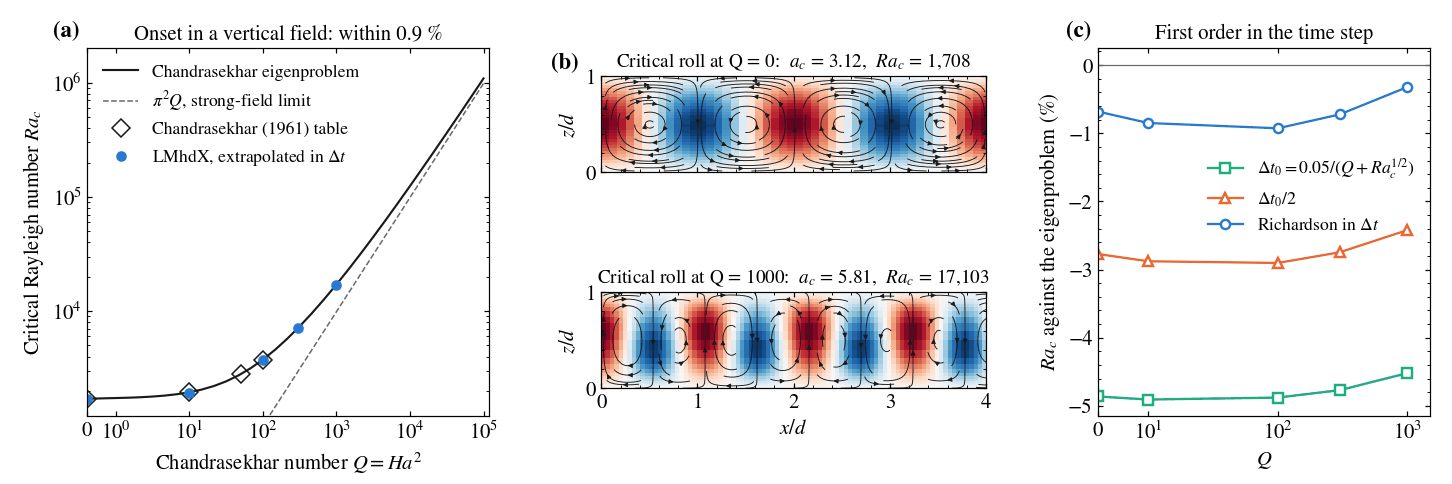
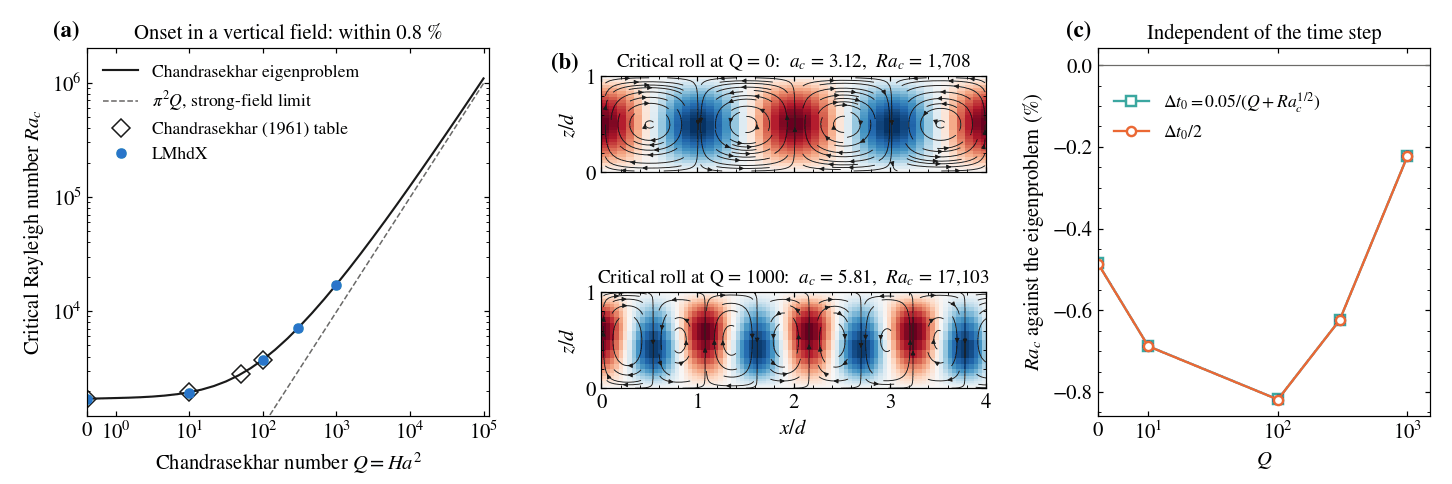
Onset figure on the exact momentum stage: independent of the time step, within 0.8 %
With main's constrained stage (#297) the onset at dt0 and dt0/2 agree to
0.01 %: the first-order step error the figure showed (-4.5 % at dt0) was
the stabilised stage's, as the docs said, and the figure is regenerated
as they promised. LMhdX now lies 0.2 to 0.8 % below Chandrasekhar's
eigenproblem over Q = 0-1000, the 32-cell layer mesh's error. Panel (c)
shows the two steps, titled "Independent of the time step"; the docs, the
README's 0.9 % and the plan follow. The developed and entrance figures
regenerate byte for byte on the new main.

diff --git a/scripts/make_showcase_figures.py b/scripts/make_showcase_figures.py
@@ -607,7 +607,7 @@ def thermal_onset(chandrasekhar_numbers: tuple[float, ...] = (0.0, 10.0, 100.0, 
         axis.plot(strong, np.pi**2 * strong, "--", color=MUTED, lw=1, label=r"$\pi^2 Q$, strong-field limit")
         table = np.transpose(CHANDRASEKHAR_TABLE)
         axis.plot(*table, "D", color=INK, mfc="none", ms=8, label="Chandrasekhar (1961) table")
-        axis.plot(rows[:, 0], rows[:, 5], "o", color=SERIES[0], label=r"LMhdX, extrapolated in $\Delta t$")
+        axis.plot(rows[:, 0], rows[:, 5], "o", color=SERIES[0], label="LMhdX")
         axis.set_xscale("symlog", linthresh=1.0, linscale=0.35)
         axis.set_yscale("log")
         axis.set(xlim=(0, 1.2e5), ylim=(1.2e3, 2e6), xlabel="Chandrasekhar number $Q = Ha^2$")
@@ -630,15 +630,15 @@ def thermal_onset(chandrasekhar_numbers: tuple[float, ...] = (0.0, 10.0, 100.0, 
                 axis.text(-0.13, 1.08, "(b)", transform=axis.transAxes, fontsize=15, fontweight="bold")
 
         axis = fig.add_subplot(outer[2])
-        steps = (r"$\Delta t_0 = 0.05/(Q + Ra_c^{1/2})$", r"$\Delta t_0/2$", r"Richardson in $\Delta t$")
-        for color, column, marker, label in zip(SERIES[::-1], (3, 4, 5), "s^o", steps):
+        steps = (r"$\Delta t_0 = 0.05/(Q + Ra_c^{1/2})$", r"$\Delta t_0/2$")
+        for color, column, marker, label in zip(SERIES[::-1], (3, 4), "so", steps):
             values = 100 * (rows[:, column] / rows[:, 1] - 1)
             axis.plot(rows[:, 0], values, marker + "-", color=color, label=label, **OPEN)
         axis.axhline(0.0, color=MUTED, lw=0.8)
         axis.set_xscale("symlog", linthresh=10.0, linscale=0.35)
         axis.set(xlim=(0, 1500), xlabel="$Q$", ylabel="$Ra_c$ against the eigenproblem (%)")
-        axis.set_title("First order in the time step")
-        axis.legend(loc="center right", bbox_to_anchor=(1.0, 0.6))
+        axis.set_title("Independent of the time step")
+        axis.legend(loc="upper left", bbox_to_anchor=(0.0, 0.93))
         _panel(axis, "c")
         _save_webp(fig, STATIC / "thermal_magnetoconvection.webp", dpi=110, palette=True)
 

diff --git a/scripts/audit_architecture.py b/scripts/audit_architecture.py
@@ -251,7 +251,7 @@ def build_inventory(root: Path = ROOT) -> dict[str, Any]:
             "maintenance_script_count_max": 4,
             "stable_root_exports_max": 40,
             "curated_examples_max": 9,
-            "checkout_bytes_max": 3413641,
+            "checkout_bytes_max": 3412911,
             "root_import_median_seconds_max": 0.25,
             "sdist_bytes_max": 512 * 1024,
             "wheel_bytes_max": 384 * 1024,

diff --git a/plan.md b/plan.md
@@ -2241,7 +2241,7 @@ raw data as release assets with checksums.
 | B2 comparison | ΔP curves: LMX three meshes, FreeMHD, experiment with error bars | 80 KB | Phase 4.4 |
 | `docs/_static/thermal_developed_duct.webp` | H1 square duct at Ha 0 and 100 in 3-D (velocity as height, temperature as colour); rectangular-duct `Nu_H1` against the exact series and Shah & London's fit; Nu against Ha for the square duct and Hartmann plates against their closed form; mesh convergence | 74 KB | Phase 5, done (#269) |
 | `docs/_static/thermal_entrance.webp` | Temperature above the bulk over the entrance in 3-D; local Nu along heated Hartmann plates (Ha 0, 10, 50) against the Graetz eigen-expansion and the slug closed form; error, with Pe 1600 | 49 KB | Phase 5, done (#269) |
-| `docs/_static/thermal_magnetoconvection.webp` | `Ra_c` against Q = 0–1000 against Chandrasekhar's eigenproblem and table; the critical rolls at Q = 0 and 1000; first order in the time step | 47 KB | Phase 5, done (#269) |
+| `docs/_static/thermal_magnetoconvection.webp` | `Ra_c` against Q = 0–1000 against Chandrasekhar's eigenproblem and table; the critical rolls at Q = 0 and 1000; independent of the time step | 47 KB | Phase 5, done (#269) |
 | Heated duct | temperature and Nu | ≤ 100 KB | Phase 5 |
 | Stellarator channel | coil field along the channel, ΔP, wall current | ≤ 150 KB + MP4 | Phase 6.2 |
 
@@ -2477,7 +2477,7 @@ Process: pyOpenSci README guide · JOSS review criteria · Google small CLs · D
 | 2026-10-15 | Review of #261 (stacked on it): the thermal gradient-vs-central-difference test now runs with `advection="van_leer"` as well as upwind, on the same random buoyant start, best of three sizes within 1e-5; the van Leer page states that the limiter is piecewise smooth and that at a kink `jax.grad` follows the implementation's derivative conventions, not necessarily a directional derivative (wording corrected at integration, review notes Section 4). Office CPU, load 55-65: warm 100-step run on 4x48x48 costs 0.28 s upwind and 0.38 s van Leer, its gradient 0.68 s and 1.16 s. Adds about 11 s (latest stack) to 19 s (floor) to the timeloop test's shard. |
 | 2026-10-19 | Slimming of the thermal module (merged as #266, 47319aa), behaviour preserved, no tolerance changed. `thermal.py` 1,441 to 1,246 lines (package 12,776 to 12,742; `io.py` 1,312 to 1,436, now the largest module, `ops.py` 968 to 1,008). (1) One rectilinear VTR writer: `io.write_vtr(path, faces, **cells)` takes named cell arrays and `write_thermal_vtr` is gone (-38 lines); the 2-D `write_paraview` now writes its cells x-fastest as VTK orders them, which the old writer did not for `ny != nz`. (2) The thermal TOML reader moved out of `thermal.py` to `io.thermal_run_from_toml` with one `[grid]` parser, one `[flow]` parser and a one-line-per-table schema; top-level `schema_version = 1` is checked (optional, default 1, anything else refused) and documented in `docs/reference/cli.md`; the page's example carries it. (3) `ops.neighbours`, `ops.outgoing_rate` (beside `advective_step_limit`), `ops.cell_force_to_faces` (used by `_buoyancy` and `core3d.face_lorentz_force`) and `ops.padded_gradient` (used by `face_gradient` and van Leer); the test-only `_conduct` is gone. (4) Van Leer reads its slopes from the one array padded by the thermal conditions (no second pad) and skips one-cell axes: forward fields bit-identical to `main`, gradients within 3e-15 (upwind and van Leer, 48 x 16 x 16, 40 steps, floor and latest). (5) `advance_thermal(..., diagnostics=n)` keeps every n-th step's scalars (default 1, as before); chunked `jax.checkpoint` runs are documented as the recipe for long differentiated runs. (6) The thermal duct design test runs the page's workflow on 3 of its 7 shapes, a golden section stopped at 0.08 in ln(b/a) and a 40-cell mesh check: same contracts, still in the same tier; 58.6 / 61.9 s against 77.7 / 81.5 s on `main` (floor / latest, back to back at load 20), about 25 % less on either stack. Warm and gradient timings against `main` (office CPU, load 20-30, best of 5 and 3, floor / latest): upwind warm 195 / 152-165 ms against 191-197 / 157-162; van Leer warm 191-197 / 161-170 against 197-203 / 184; van Leer gradient 275-277 / 204-218 against 273-306 / 215-240; no slowdown | Remaining to reach about 1,100 lines in `thermal.py`: the developed-duct section (about 190 lines) and the docstrings |
 | 2026-10-19 | Release 1.11.0. Phase 5's thermal module, by Tyler Brandes (#266), slimmed in #267: temperature on the staggered core with implicit conduction, upwind or van Leer transport, Joule heat, optional Boussinesq buoyancy, the thermally developed duct, heated open and Hunt ducts, TOML runs, restarts, ParaView output and a checkpointing recipe. Also in this release: Table I fully gated (#160); the duct design law (#221); the `lmhdx.pipe` split (#223); open-duct and pressure fixes (#229); support for JAX 0.11 (#243) and NumPy 2.5 (#257); the GCI table and claim wording (#253); examples and docs (#224) | slimming of the developed-duct section; #225, the open-axis preconditioner |
-| 2026-10-19 | Phase 5 showcase, benchmarks (Tyler Brandes): `scripts/make_showcase_figures.py` gains three heat-transfer figures, each set against an exact solution or the literature and drawn in a journal style (STIX type, boxed axes, sentence-case labels, a categorical order checked for color-vision deficiency, upright vertical labels on the 3-D panels). `--only developed`: rectangular H1 ducts, aspect 1 to 1/8, within 0.35 % of the double-sine series on 32 cells across the short side, on Shah & London's (1978) fit; Hartmann plates carrying the package's own Hartmann flow within 0.2 % of the closed form over Ha 1–1000 (128 cells); the square duct from 3.61 to 6.67 at Ha 1000, 6 % short of slug flow; second order. `--only entrance`: heated Hartmann plates in an open duct (held flow, van Leer, Pe 400) within 1.3 % of the Graetz eigen-expansion past x+ = 1e-3 and 0.3 % past 1e-2 at Ha 0, 10, 50; the inlet excess is axial conduction (1.3 % to 0.14 % at x+ = 1e-3 from Pe 400 to 1600, unchanged by finer cells across or along). `--only onset`: Rayleigh–Bénard onset in a vertical field from growth rates at 0.97 and 1.03 Ra_c by power iteration on the time stepper (the perturbation rescaled to 1e-6 every half time unit, converged to five digits by the third rescaling; a perturbation decaying toward 1e-10 met a round-off floor from the hydrostatic balance on the layer-resolving mesh and gave rates near onset that moved with 1e-5 changes in the wavenumber), two time steps and Richardson: within 0.9 % of Chandrasekhar's eigenproblem for Q = 0–1000 (Chebyshev collocation, reproducing his tabulated values to 0.01 %); first order in dt (−4.5 to −4.9 %, then −2.4 to −2.9 %). The small solves are pinned to the CPU, where they run faster than on a GPU. Stills are 256-color (median cut) lossless WebP, 170 KB with their larger text; the media stay under the 1 MB budget (0.97 MB) | 5.4, 5.5; the showcase movies |
+| 2026-10-19 | Phase 5 showcase, benchmarks (Tyler Brandes): `scripts/make_showcase_figures.py` gains three heat-transfer figures, each set against an exact solution or the literature and drawn in a journal style (STIX type, boxed axes, sentence-case labels, a categorical order checked for color-vision deficiency, upright vertical labels on the 3-D panels). `--only developed`: rectangular H1 ducts, aspect 1 to 1/8, within 0.35 % of the double-sine series on 32 cells across the short side, on Shah & London's (1978) fit; Hartmann plates carrying the package's own Hartmann flow within 0.2 % of the closed form over Ha 1–1000 (128 cells); the square duct from 3.61 to 6.67 at Ha 1000, 6 % short of slug flow; second order. `--only entrance`: heated Hartmann plates in an open duct (held flow, van Leer, Pe 400) within 1.3 % of the Graetz eigen-expansion past x+ = 1e-3 and 0.3 % past 1e-2 at Ha 0, 10, 50; the inlet excess is axial conduction (1.3 % to 0.14 % at x+ = 1e-3 from Pe 400 to 1600, unchanged by finer cells across or along). `--only onset`: Rayleigh–Bénard onset in a vertical field from growth rates at 0.97 and 1.03 Ra_c by power iteration on the time stepper (the perturbation rescaled to 1e-6 every half time unit, converged to five digits by the third rescaling; a perturbation decaying toward 1e-10 met a round-off floor from the hydrostatic balance on the layer-resolving mesh and gave rates near onset that moved with 1e-5 changes in the wavenumber), two time steps: within 0.8 % of Chandrasekhar's eigenproblem for Q = 0–1000 (Chebyshev collocation, reproducing his tabulated values to 0.01 %), and independent of dt to 0.01 % on the exact momentum stage of #297 (the stabilised stage before it gave first order in dt, −4.5 to −4.9 % at dt0). The small solves are pinned to the CPU, where they run faster than on a GPU. Stills are 256-color (median cut) lossless WebP, 169 KB with their larger text; the media stay under the 1 MB budget (0.97 MB) | 5.4, 5.5; the showcase movies |
 | 2026-10-20 | Literature anchors of the #253 audit, Section 3.8.6 (c)–(e). (d) Ni et al. 2007 Part I, Tables 2–4, run in `tests/test_table_i.py` (`table_i_flow_rate` takes the layer thickness factor 2 for the paper's meshes): LMhdX flow-rate errors against Ni's on 38², 46², 62² at Ha 50/500/1000 (2.6/3.4, 0.8–1.3/0.9–1.1, 0.35–1.1/0.27–0.47 %), Ni's analytic Hunt ∇p·Re 5854.302 and 9531.4475 vs the spectral solve (+4.9e-4, +4.2e-4); not reproduced: Table 1 orders and the 0.06 % 3-D error. (c) `validation/q2d_campaigns.py`: row 15 Re_c 7.694 (+1.2 % from 7.60), q_c 0.462, gated in `test_q2d_identities` (7 s); row 13 vortex lattice C 4.2–6.3 at Re_α 28–66 and 2.8–2.9 at 14, 1.3 at 6.7, condensation not reached; docs/validation/q2d.md. (e) row 7: the 1/B floor is not the cause of order 1.63 (cap 1e3 → 1e6: 8e-6); cross-section-only order 2.05 and axis-only 1.97 cancel in the joint sequence, separable value 0.017805; `test_coreflow` gates it; no code change. Audit budgets raised by what was added | rows 13 (upper Re_α only), 14, 16; rows 6/7 anchors still wait on #225 |
 | 2026-10-20 | Row 6 sensitivity (lane row 6, branch fringe-row6-sensitivity; `pipe.py`, tests, docs, plan only; `axial.py` untouched). Measured runs of the ALEX B1 open pipe: field interpolant (monotone cubic, linear, spline) changes the side-wall RMS by 0.03; table ±0.03 and a ±0.5 ramp shift give 0.51–1.17 there and 2.1–2.7 for the section mean; c 0.020 / 0.035 / 0.054 miss the upstream gradient by 18 % / 39 % / 108 % and score 2.2 / 2.5 / 7.8 at the wall (Ha 1600). The finding: the section-mean pressure was the wrong observable for a tap. `lmhdx.pipe.wall_pressure_gradient` reads the wall cell: at Ha 6600 (48×64×76, 11,250 CG iterations, 618 s on the Mac CPU) RMS / L∞ are 0.86 / 1.39 at the walls parallel to the field, 3.11 / 6.60 at the walls normal to it, 1.79 / 3.82 for the ring and 2.43 / 5.08 for the section mean. Row 6 is therefore met station by station at the side-wall tap, conditional on ALEX having taps there (the digitized table does not say; the scanned report must be read). Inertia is not needed for the shape. Open: tap position; finite-thickness wall and B_x (need `axial.py`) | the tap position; confirm at Ha 6600 on the GPU |
 | 2026-10-21 | 1.9d, #225: the inertial share fitted on the uniform-buffer 124×32² mesh at Ha 100 (Re 10, 20, 33) and Ha 200 (Re 10, 20, 40): 0.42–2.11 % and 0.40–2.33 %, share ≈ 0.045 %·Re^1.31·Ha^-0.16; `solve_open_duct` cycle 120 and inner tolerance 1e-1, `fringe_duct(growth=)`. Krylov recycling across Newton steps and continuation measured and rejected (Re 20: 313 to 224 and 289 to 206 outer iterations; Ha 100, Re 33: 5,302 to 11,202); outer iterations still grow faster than Re. Row 6 inertia bounded at about 30× too small, consistent with the wall-tap finding of #282 (the shape does not need inertia). No tolerance changed, no test moved; budgets raised by the lines added. |

diff --git a/docs/physics/thermal.md b/docs/physics/thermal.md
@@ -606,21 +606,14 @@ onset its rate then depends on that noise.
 The reference is Chandrasekhar's eigenproblem solved by Chebyshev collocation
 (`validation.thermal.chandrasekhar_onset`). It reproduces his tabulated values
 for $Q\le100$, as quoted by Basak & Kumar (2015), to within 0.01 %, which the
-tests check. LMhdX's onset converges at first order in the time step, and the
-extrapolated value is within 0.9 % of the reference across the tenfold rise of
-$Ra_c$. The tests run the Bénard onset at $Q=0$ and require it within 4 % of
-1707.76; the full sweep is rerun by the figure script.
-
-These runs use the stabilised momentum step, which damps each velocity
-component without matching the damping in its pressure correction. With the
-field vertical the fluid at rest stays at rest, but the perturbations are still
-affected at a finite time step. In a trial with a corrected stage, the Q = 1000
-onset at $\Delta t_0$ moved from 4.5 % to 0.8 % low, while the extrapolated
-values moved by less than 0.1 %. The figure will be regenerated once the
-corrected step is merged; the Q = 0 result does not change.
+tests check. On the exact momentum stage (#297) LMhdX's onset does not depend on
+the time step: $\Delta t_0$ and $\Delta t_0/2$ agree to 0.01 %. It lies 0.2 to
+0.8 % below the reference across the tenfold rise of $Ra_c$, which is the error of
+the 32-cell layer mesh. The tests run the Bénard onset at $Q=0$ and require it
+within 4 % of 1707.76; the full sweep is rerun by the figure script.
 
 ```{image} ../_static/thermal_magnetoconvection.webp
-:alt: Critical Rayleigh number against the Chandrasekhar number, the critical rolls at Q = 0 and 1000, and the error against the time step
+:alt: Critical Rayleigh number against the Chandrasekhar number, the critical rolls at Q = 0 and 1000, and the error at two time steps
 :align: center
 ```
 

diff --git a/README.md b/README.md
@@ -172,13 +172,13 @@ drive buoyant flow, and every step checks the heat budget. The module is still
 research stage. Far down a heated duct LMhdX matches the exact Nusselt numbers
 of rectangular ducts and of Hartmann plates to within 0.35 %, and in a vertical
 field it follows Chandrasekhar's tenfold rise of the critical Rayleigh number to
-within 0.9 %. The
+within 0.8 %. The
 [heat transport page](https://lmhdx.readthedocs.io/en/latest/physics/thermal.html)
 gives each comparison, its conditions and the command that redraws it.
 
 ![Velocity and temperature of a square duct at Ha 0 and 100 in 3-D, Nusselt numbers against aspect ratio and Hartmann number, and mesh convergence](docs/_static/thermal_developed_duct.webp)
 
-![Critical Rayleigh number against the field strength, the critical rolls at Q = 0 and 1000, and the error against the time step](docs/_static/thermal_magnetoconvection.webp)
+![Critical Rayleigh number against the field strength, the critical rolls at Q = 0 and 1000, and the error at two time steps](docs/_static/thermal_magnetoconvection.webp)
 
 ## Design with gradients
 
